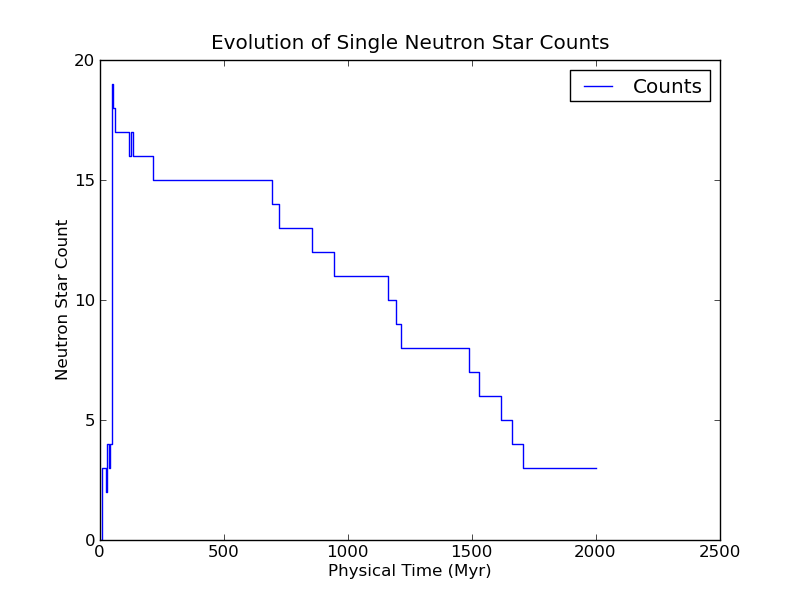
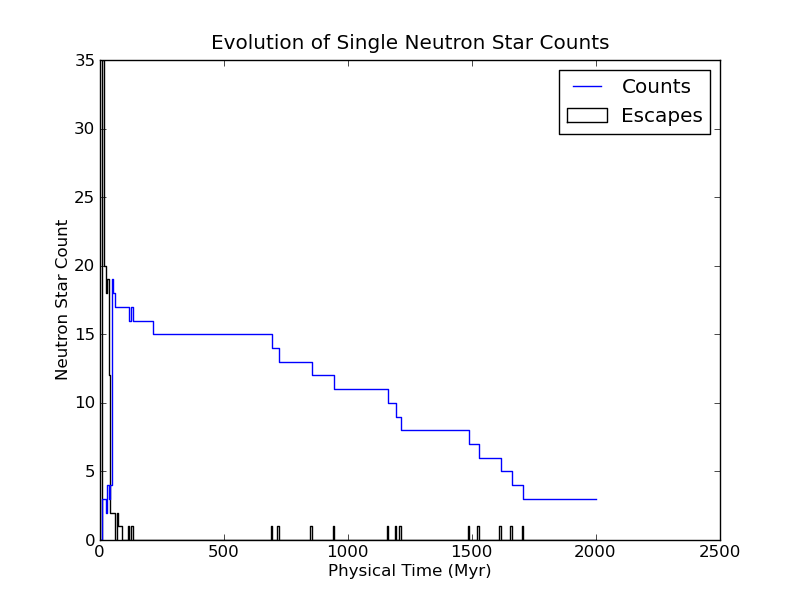
Create single star plots with escapes

diff --git a/scripts/script.py b/scripts/script.py
@@ -6,6 +6,7 @@ import glob
 import matplotlib as mpl
 mpl.use('Agg')
 import matplotlib.pyplot as plt
+
 import parse
 
 params = {
@@ -24,13 +25,17 @@ data_dir = os.path.join(
 )
 
 for dir in glob.glob(data_dir):
+    # Neutron star counts
     data = parse.parse_run(dir)
     timesteps = [x['time'] for x in data]
     counts = [x['stars'] for x in data]
 
     single_hist = parse.hist_data(timesteps, counts)
-
     plt.plot(single_hist[0], single_hist[1], label="Counts")
+
+    # Neutron star escape counts
+    single_escapes = parse.parse_single_run_esc(dir)
+    plt.hist(single_escapes, bins=timesteps, histtype="stepfilled", label="Escapes", fill=False)
 
     plt.title("Evolution of Single Neutron Star Counts")
     plt.xlabel("Physical Time (Myr)")

diff --git a/scripts/parse.py b/scripts/parse.py
@@ -98,8 +98,11 @@ def parse_run(run_dir):
 def parse_single_esc(save_dir):
     escape_times = []
     with open(os.path.join(save_dir, "esc.11"), 'r') as f:
-        # Skip the header
-        next(f)
+        try:
+            # Skip the header
+            next(f)
+        except StopIteration: # Empty file
+            return []
 
         for line in f:
             data_line = line.split()
